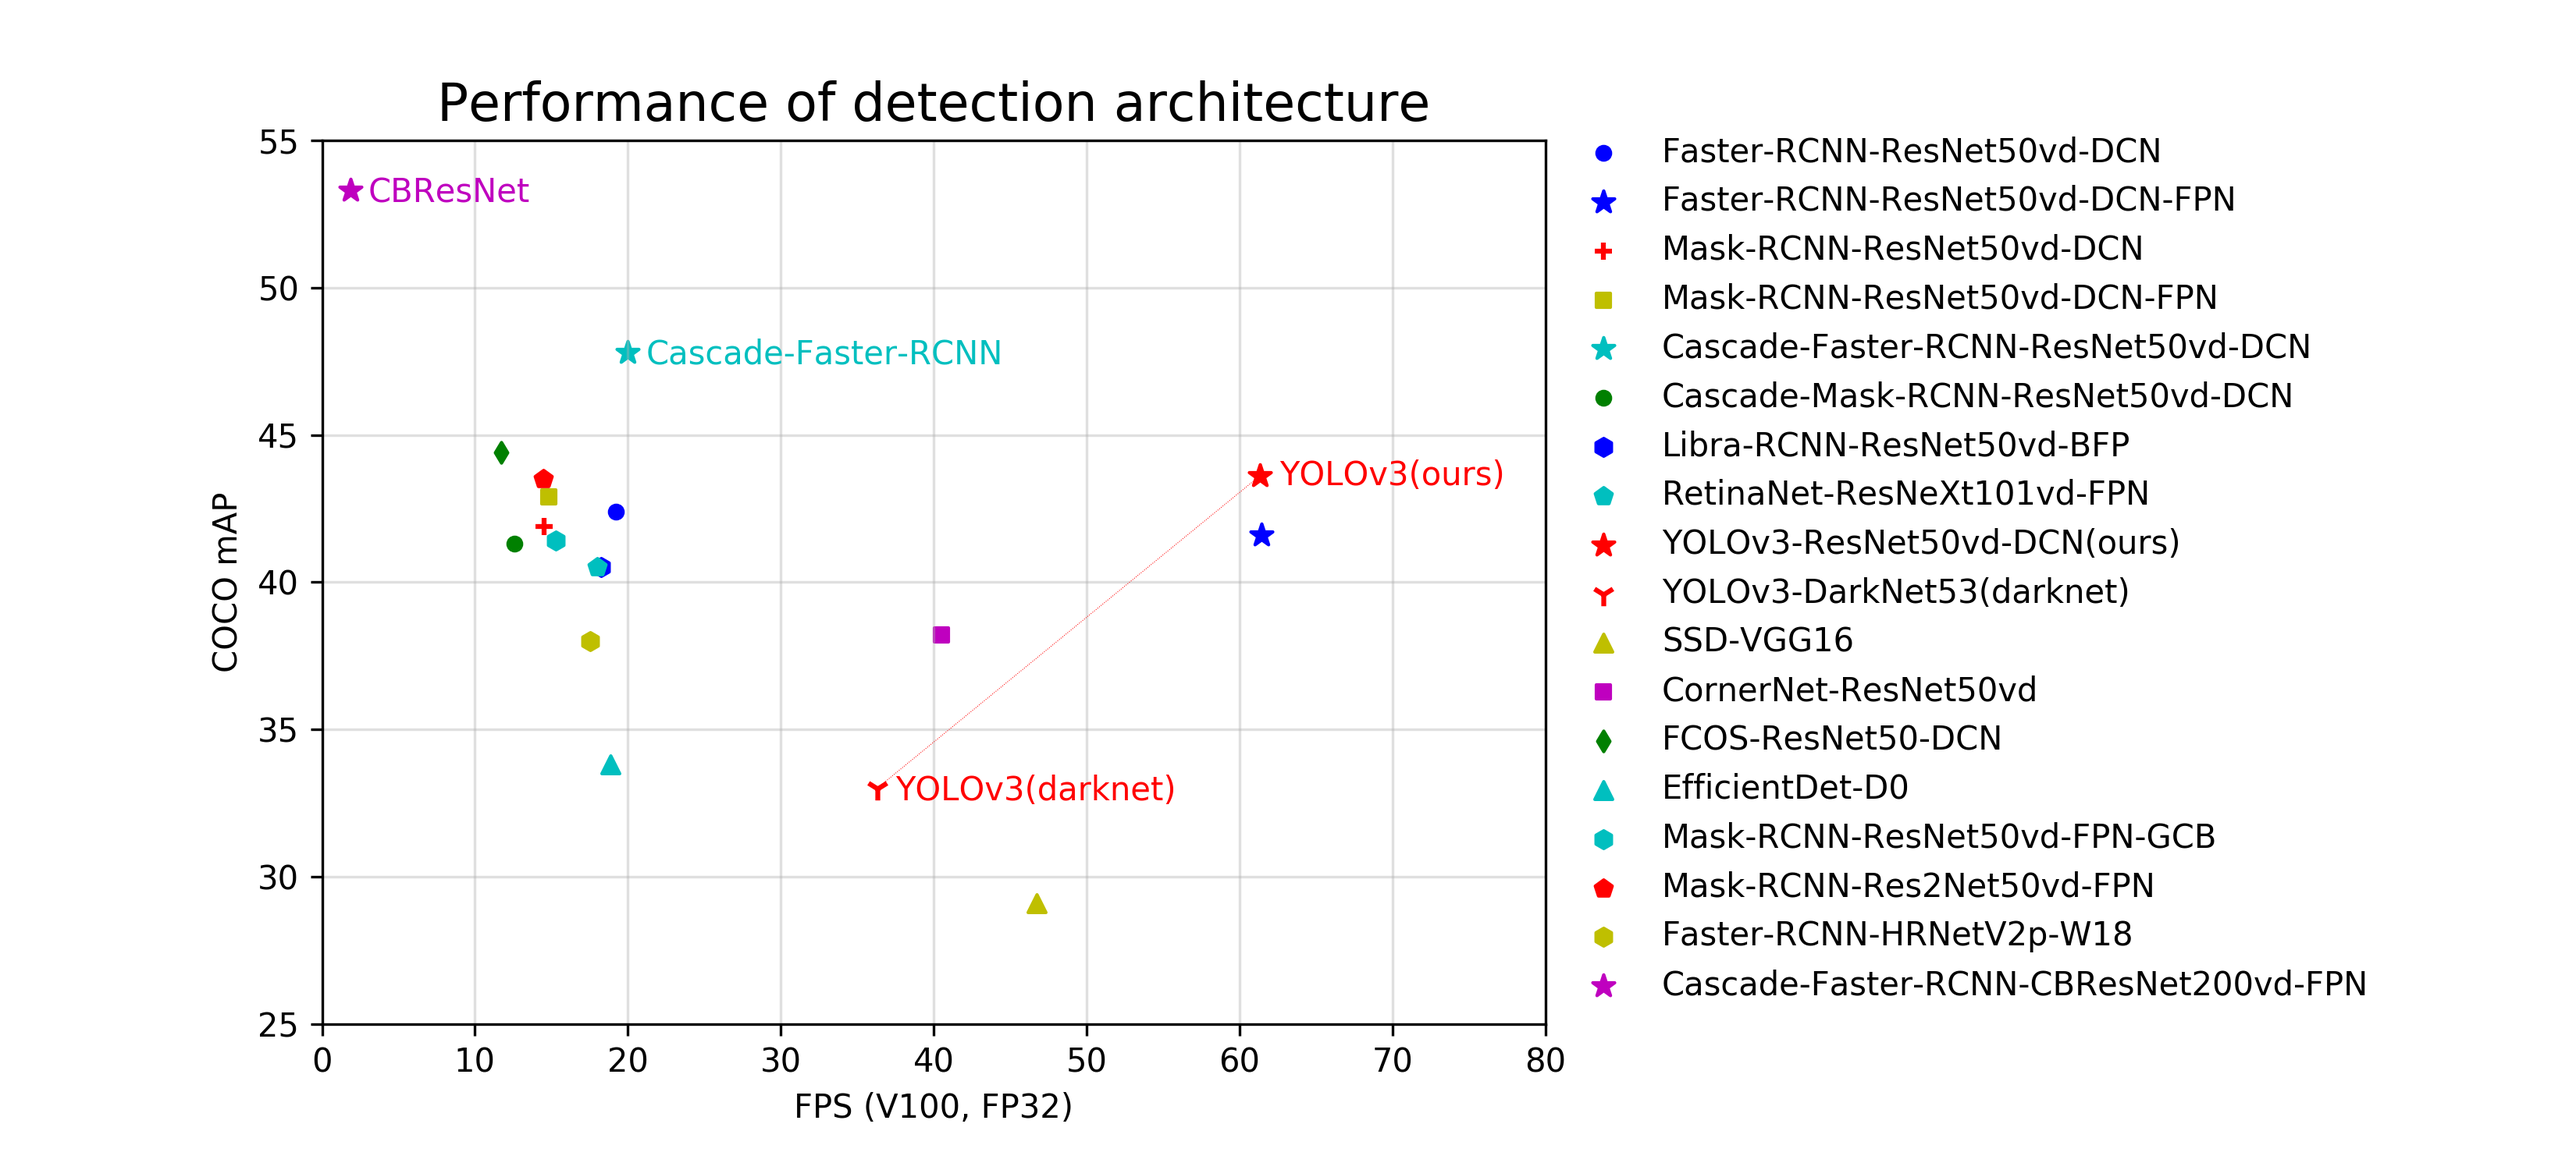
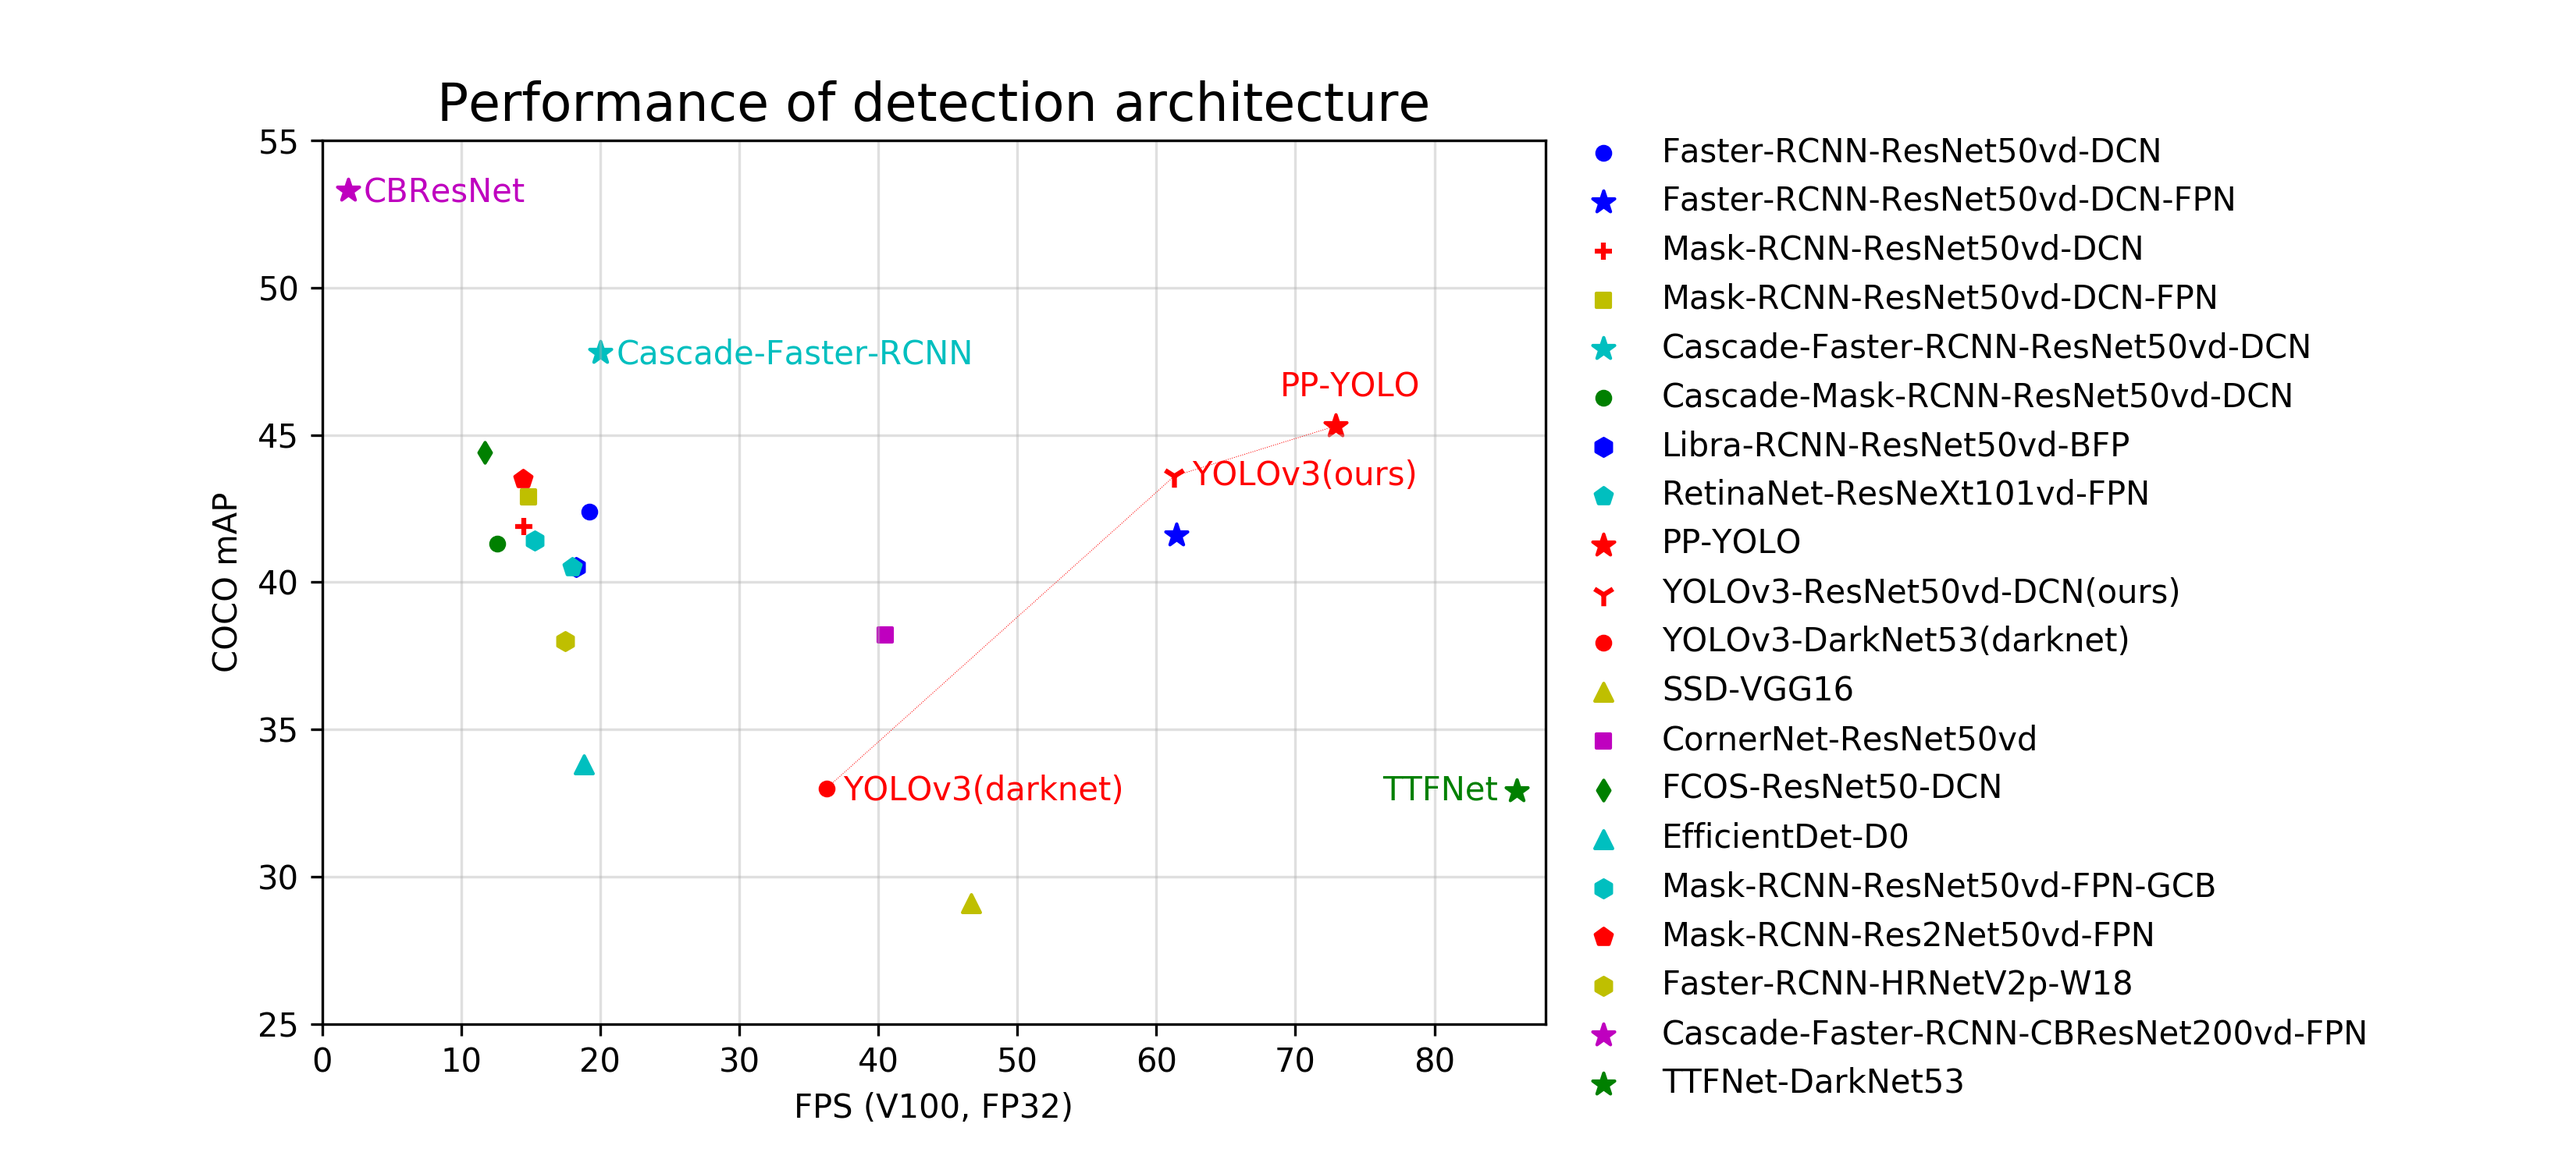
update map_fps

diff --git a/README_en.md b/README_en.md
@@ -13,8 +13,8 @@ image object detection, and automatic inspection with its practical features suc
 and multi-platform deployment.
 
 [PP-YOLO](https://arxiv.org/abs/2007.12099), which is faster and has higer performance than YOLOv4,
-has been released, it reached mAP(0.5:0.95) as 45.2% on COCO test2019 dataset and 72.9 FPS on single
-Tesla V100. Please refer to [PP-YOLO](configs/ppyolo/README.md) for details.
+has been released, it reached mAP(0.5:0.95) as 45.2%(newest 45.9%) on COCO test2019 dataset and
+72.9 FPS on single Test V100. Please refer to [PP-YOLO](configs/ppyolo/README.md) for details.
 
 **Now all models in PaddleDetection require PaddlePaddle version 1.8 or higher, or suitable develop version.**
 
